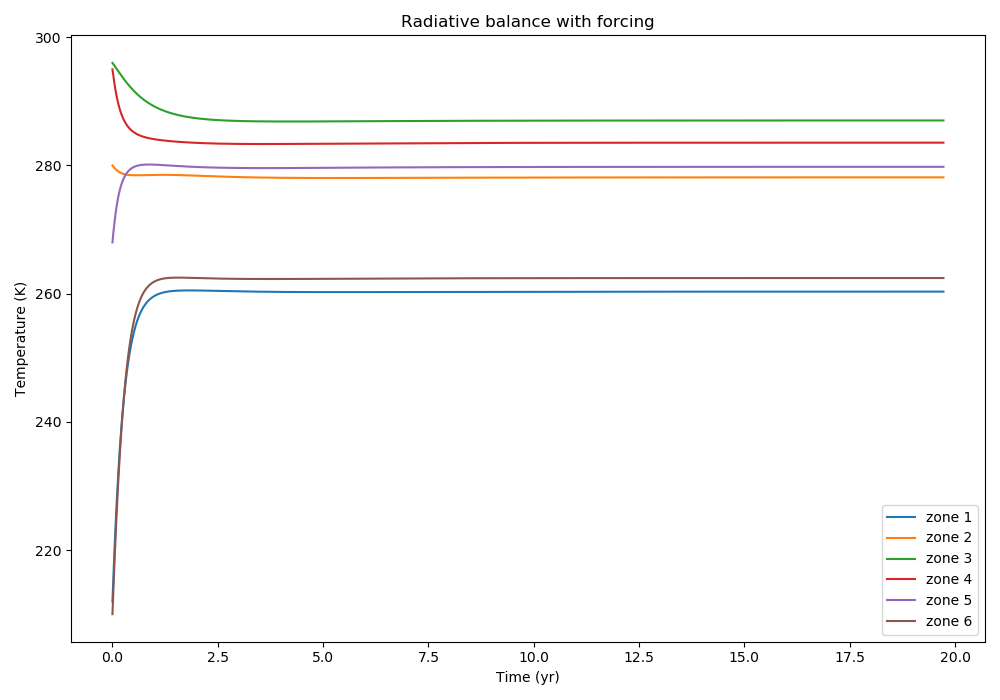
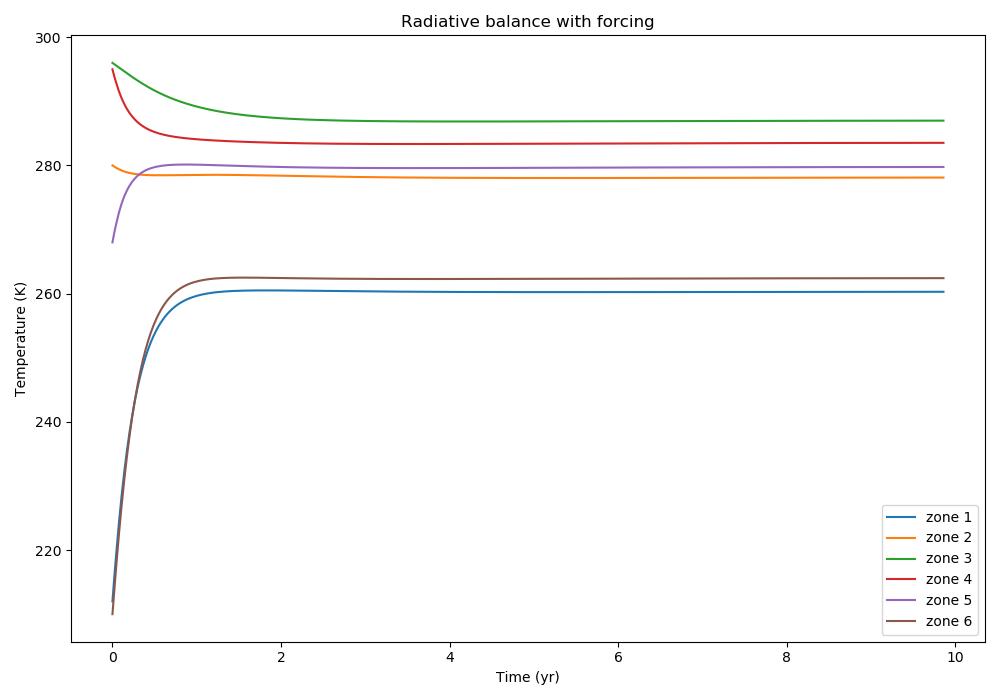
updated figures

diff --git a/utilities/plotters.py b/utilities/plotters.py
@@ -38,7 +38,7 @@ def plot_model_withforcing():
     # Time interval for integration (in seconds)
     mon2sec = 30*24*3600
     t_min = 0
-    t_max = 20*12*mon2sec
+    t_max = 10*12*mon2sec
     max_step = 1E6
 
     # Initial temperatures
